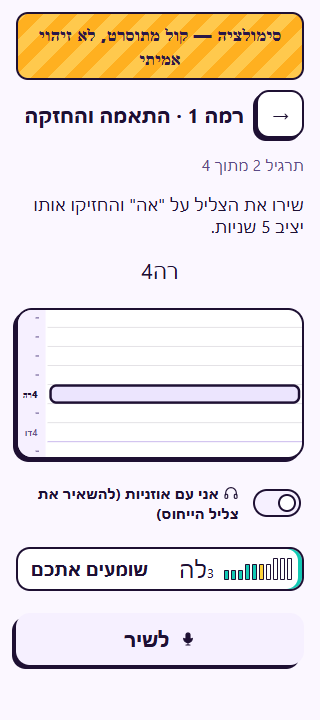
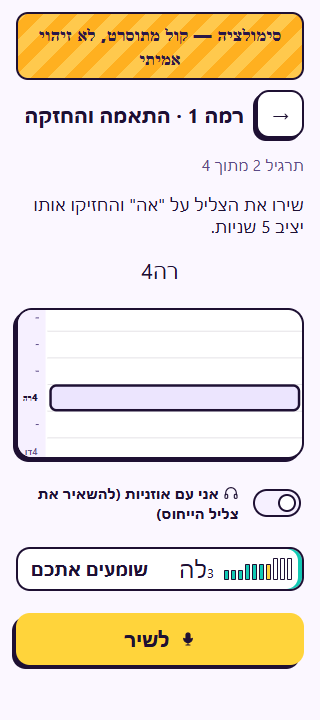
voice UI slice 4: the vibrato chip
- A 1 s box draws the measured vibrato (cycles = rate, height = width on the meter's scale) from a 0.9 s window,
  updated 4 times a second, over a dashed ghost wave of the goal (vibrato-rate, vibrato-width, style band).
- States: straight (flat line), vibrato, unsteady (uneven wave); teal when rate and width are both in band,
  otherwise the off parameter carries a tangerine up / purple down mark; the outline flashes lemon on a cue change.
- The vibrato centre is scored and shown: the cents chip and the zone needle read the mean over the last two
  cycles when a vibrato runs, so a healthy vibrato never reads as out of tune (engine already grades the centre).
- Review: the chip freezes on the take's vibrato with 'even cycles' / 'rate wanders N %'; the old pulsing dot
  at the target rate is gone (the ghost wave replaces it).
- Note names in the target line keep name, accidental, octave order in Hebrew (LRM marks).
- Tests: wave geometry, off-band marks, centre reading; e2e asserts the chip live and in review; shots s4-*.

Changed region(s): [[0.0312, 0.7639, 0.9688, 0.9472], [0.1562, 0.55, 0.9375, 0.5806], [0.0625, 0.5194, 0.125, 0.6417]]

diff --git a/src/ui/SingLane.tsx b/src/ui/SingLane.tsx
@@ -5,7 +5,7 @@
 
 import { useEffect, useLayoutEffect, useMemo, useRef, useState, type ReactNode } from 'react';
 import { chipCents, octaveFold, zoneState, type ZoneState } from '../engine/pitchDisplay';
-import { bestStretch, centreLine, sliceSteadiness, type NoteDetail } from '../engine/vocalLive';
+import { bestStretch, centreLine, liveVibrato, readCents, sliceSteadiness, vibratoOff, vibratoWave, type LiveVibrato, type NoteDetail, type VibratoGoal } from '../engine/vocalLive';
 import type { MelodyNote } from '../engine/vocal';
 import type { Settings } from '../storage/progress';
 import { noteLabel } from './Vocal';
@@ -501,7 +501,8 @@ export function SingReadout({ feed, targets, tol, settings, live, lang }: { feed
   const fresh = p && feed.now() - p.t < 0.25;
   const tg = targetAt(targets, feed.now(), p?.m ?? null);
   const sung = live ? feed.shown : null;
-  const cents = fresh && tg ? (p!.m! + octaveFold(p!.m!, tg.midi) - tg.midi) * 100 : null;
+  const raw = fresh && tg ? (p!.m! + octaveFold(p!.m!, tg.midi) - tg.midi) * 100 : null;
+  const cents = tg && raw !== null ? readCents(feed.track(tg.midi, feed.now() - 1.2), raw) : raw;
   const st = zoneState(cents, tol);
   const sameNote = sung !== null && tg && Math.round(tg.midi) === sung;
   return (
@@ -585,21 +586,25 @@ export function SustainBars({ levels, cur, seconds, sung, best, lang }: { levels
         ))}
       </span>
       <small className="sb-label" dir="ltr">
-        {best !== undefined && best > 0 ? `${SING_TX.best[lang]} ${best.toFixed(1)} s · ` : ''}
-        {Math.min(sung, seconds).toFixed(1)} / {seconds} s
+        {/* review: the longest steady stretch; live: time so far */}
+        {best !== undefined ? `${SING_TX.best[lang]} ${best.toFixed(1)} s` : `${Math.min(sung, seconds).toFixed(1)} / ${seconds} s`}
       </small>
     </div>
   );
 }
 
 /** The live meter row: the zone meter (and, for holds, the steadiness bars) sampled at 10 Hz. */
-export function SingMeters({ feed, targets, tol, seconds, live, bars, meter, lang }: { feed: SingFeed; targets: LaneTarget[]; tol: number; seconds: number; live: boolean; bars: boolean; meter: boolean; lang: 'he' | 'en' }) {
-  useTick(10, live);
+export function SingMeters({ feed, targets, tol, seconds, live, bars, meter, lang, vib, cue, frozenVib }: { feed: SingFeed; targets: LaneTarget[]; tol: number; seconds: number; live: boolean; bars: boolean; meter: boolean; lang: 'he' | 'en'; vib?: VibratoGoal | false | null; cue?: string | null; frozenVib?: (LiveVibrato & { note?: string }) | null }) {
+  const tick = useTick(10, live);
   const p = live ? feed.last() : null;
   const now = feed.now();
   const fresh = p && now - p.t < 0.25;
   const tg = targetAt(targets, now, p?.m ?? null);
-  const cents = fresh && tg ? (p!.m! + octaveFold(p!.m!, tg.midi) - tg.midi) * 100 : null;
+  const raw = fresh && tg ? (p!.m! + octaveFold(p!.m!, tg.midi) - tg.midi) * 100 : null;
+  const cents = tg && raw !== null ? readCents(feed.track(tg.midi, now - 1.2), raw) : raw;
+  // The vibrato chip updates at 4 Hz (every third tick of the 10 Hz meters).
+  const vibRef = useRef<LiveVibrato>({ state: 'none', rate: 0, extent: 0 });
+  if (vib !== false && vib !== undefined && live && tg && tick % 3 === 0) vibRef.current = liveVibrato(feed.track(tg.midi, now - 1.2), 0.9);
   let barsEl: ReactNode = null;
   if (bars && tg) {
     const slice = Math.max(0.25, seconds / 40);
@@ -610,11 +615,59 @@ export function SingMeters({ feed, targets, tol, seconds, live, bars, meter, lan
     const cur = live && on !== null ? Math.min(n - 1, Math.floor(sung / slice)) : -1;
     barsEl = <SustainBars levels={levels} cur={cur} seconds={seconds} sung={Math.max(0, sung)} best={live ? undefined : bestStretch(levels, slice)} lang={lang} />;
   }
+  const chip = vib === false || vib === undefined ? null : <VibratoChip v={live ? vibRef.current : frozenVib ?? { state: 'none', rate: 0, extent: 0 }} goal={vib} cue={cue ?? null} lang={lang} note={live ? undefined : frozenVib?.note} />;
   return (
     <div className="sing-meters">
       {meter && <ZoneMeter cents={cents} tol={tol} />}
-      {barsEl}
+      {chip ? (
+        <div className="sm-row">
+          {barsEl ?? <span className="sm-fill" />}
+          {chip}
+        </div>
+      ) : (
+        barsEl
+      )}
     </div>
+  );
+}
+
+// ------------------------------------------------------------------ the vibrato chip (§4.6)
+
+/** A 1 s box drawing the measured vibrato (cycles = rate, height = width), the goal as a dashed ghost behind it. */
+export function VibratoChip({ v, goal, cue, lang, note }: { v: LiveVibrato; goal: VibratoGoal | null; cue: string | null; lang: 'he' | 'en'; note?: string }) {
+  const W = 84;
+  const H = 26;
+  const ghost = goal ? vibratoWave((goal.rate[0] + goal.rate[1]) / 2, (goal.extent[0] + goal.extent[1]) / 2, W, H) : null;
+  const on = v.state === 'vibrato' || v.state === 'unsteady';
+  const off = on && goal ? vibratoOff(v, goal) : null;
+  const inBand = !!off && off.rate === 0 && off.extent === 0;
+  const wave = on ? vibratoWave(v.rate, v.extent, W, H, v.state === 'unsteady') : `M0 ${H / 2}H${W}`;
+  const mk = (x: -1 | 0 | 1) => (x > 0 ? '▲' : x < 0 ? '▼' : '');
+  return (
+    <span key={cue ?? ''} className={`vib-chip ${v.state}${inBand ? ' in' : ''}${cue ? ' flash' : ''}`} aria-hidden="true" data-vib={v.state}>
+      <svg viewBox={`0 0 ${W} ${H}`} width={W} height={H}>
+        {ghost && <path d={ghost} className="vc-ghost" />}
+        <path d={wave} className="vc-wave" />
+      </svg>
+      <small dir="ltr">
+        {on ? (
+          <>
+            <span className={off?.rate ? (off.rate > 0 ? 'hi' : 'lo') : ''}>
+              {mk(off?.rate ?? 0)}
+              {v.rate.toFixed(1)} Hz
+            </span>{' '}
+            <span className={off?.extent ? (off.extent > 0 ? 'hi' : 'lo') : ''}>
+              {mk(off?.extent ?? 0)}±{v.extent}¢
+            </span>
+          </>
+        ) : v.state === 'straight' ? (
+          SING_TX.straight[lang]
+        ) : (
+          '–'
+        )}
+      </small>
+      {note && <small className="vc-note">{note}</small>}
+    </span>
   );
 }
 

diff --git a/src/ui/Vocal.tsx b/src/ui/Vocal.tsx
@@ -23,6 +23,8 @@ import { displayNote, hzToMidi, type PitchClass } from '../engine/pitch';
 import type { SungFrame } from '../engine/sing';
 import {
   DEFAULT_RANGE,
+  EXTENT_BAND,
+  WIDTH_BAND,
   gradeTake,
   itemFits,
   itemTargets,
@@ -67,9 +69,9 @@ import { VoiceLevelTest } from './VoiceLevelTest';
 import { LatencyCalibrate } from './LatencyCalibrate';
 import { Glyph, DOMAIN_COLOR } from './Glyph';
 import { FAMILY_GLYPH } from './stepGlyphs';
-import { NoteDetailRow, SingLane, SingMeters, SingReadout } from './SingLane';
+import { ltrLabel, NoteDetailRow, SingLane, SingMeters, SingReadout } from './SingLane';
 import { SingFeed, type LaneTarget } from './singFeed';
-import { moneyNotes, noteDetail, zoneTolerance } from '../engine/vocalLive';
+import { moneyNotes, noteDetail, zoneTolerance, type VibratoGoal } from '../engine/vocalLive';
 import { SING_TX } from '../content/singLaneText';
 import { NoVoiceBanner, VoiceCheck } from './VoiceCheck';
 
@@ -1204,6 +1206,26 @@ function VocalSession({
   })();
   const shownIdx = hidden ? shownTargets.map((m, k) => (visible.includes(m) ? k : -1)).filter((k) => k >= 0) : null;
   const holdItem = HOLD_KINDS.includes(item.kind);
+  // The vibrato chip: holds, vibrato items and messa di voce (never staccato, fast melodies or songs).
+  const vibItem = item.kind.startsWith('vibrato') && item.kind !== 'vibrato-notes' || item.kind === 'messa' || item.kind === 'hold' || item.kind === 'straight';
+  const vibGoal: VibratoGoal | false | null = !vibItem
+    ? false
+    : item.kind === 'vibrato-rate'
+      ? { rate: [(item.vibRate ?? 5.5) - 0.4, (item.vibRate ?? 5.5) + 0.4], extent: EXTENT_BAND[style] }
+      : item.kind === 'vibrato-width'
+        ? { rate: [4.5, 7], extent: WIDTH_BAND[item.vibWidth ?? 'narrow'] }
+        : item.kind.startsWith('vibrato')
+          ? { rate: [4.5, 7], extent: EXTENT_BAND[style] }
+          : null;
+  const hv = grade && !grade.unclear ? grade.hold?.vibrato : undefined;
+  const frozenVib = vibItem && hv
+    ? {
+        state: (hv.present ? (hv.regularity > 0.35 ? 'unsteady' : 'vibrato') : 'straight') as 'vibrato' | 'unsteady' | 'straight',
+        rate: Math.round(hv.rate * 10) / 10,
+        extent: Math.round(hv.extent / 5) * 5,
+        note: hv.present ? (hv.jitter <= 0.1 ? SING_TX.even[lang] : `${SING_TX.wanders[lang]} ${Math.round(hv.jitter * 100)}%`) : undefined,
+      }
+    : null;
   const strong = !!grade && !grade.unclear && grade.score >= STRONG;
   const weakestScore = grade && grade.weakest ? Math.min(...grade.metrics.filter((m) => m.key === grade.weakest).map((m) => m.score)) : 1;
   const title = level === 'warmup' ? t.vocalWarmup : isNewLevel(level) ? levelName(level, t, settings.uiLang === 'en' ? 'en' : 'he') : level > ORNAMENT_BASE ? `${t.ornTitle} · ${t.ornLevelNames[level - ORNAMENT_BASE - 1]}` : level > SIGHT_BASE ? `${t.sightTitle} · ${t.sightLevelNames[level - SIGHT_BASE - 1]}` : level > BARRY_BASE ? `${t.barryTitle} · ${t.barryLevelNames[level - BARRY_BASE - 1]}` : level > HARMONY_BASE ? `${t.harmonyTitle} · ${t.harmonyLevelNames[level - HARMONY_BASE - 1]}` : level > MODES_BASE ? `${t.modesTitle} · ${t.modesLevelNames[level - MODES_BASE - 1]}` : `${fill(t.vocalLevel, { n: level })} · ${t.vocalLevelNames[level - 1]}`;
@@ -1281,7 +1303,6 @@ function VocalSession({
           ))}
         </p>
       )}
-      {item.kind === 'vibrato-rate' && phase === 'singing' && <div className="vib-pulse" style={{ animationDuration: `${1 / (item.vibRate ?? 5.5)}s` }} aria-hidden="true" />}
       {isSight(item) ? (
         <div className="sight-score">
           <NotesView midis={shownTargets} keyPc={pc(sightKeyName(item, shownTargets[0]))} settings={settings} durs={item.durs} clef={item.more?.clef ?? (range.low <= 45 ? 'bass' : undefined)} now={pulseNow} />
@@ -1295,7 +1316,7 @@ function VocalSession({
         </div>
       ) : (pulse && phase !== 'result') || (phase === 'result' && !!melNotes) || (phase === 'singing' && !visible.some((m) => Math.abs(m - Math.round(m)) > 0.2)) ? null : (
       <p className="vocal-targets" dir="ltr">
-        {visible.map((m) => (Math.abs(m - Math.round(m)) > 0.2 ? `${noteLabel(Math.ceil(m), settings)}¼↓` : noteLabel(m, settings))).join(' – ')}
+        {visible.map((m) => ltrLabel(Math.abs(m - Math.round(m)) > 0.2 ? `${noteLabel(Math.ceil(m), settings)}¼↓` : noteLabel(m, settings))).join(' – ')}
       </p>
       )}
       {/* While singing, the lane carries the notes; the beat light keeps the count-in and the pulse (timing-cue rule). */}
@@ -1340,8 +1361,8 @@ function VocalSession({
       <NoVoiceBanner feed={feed} live={phase === 'singing'} from={0} lang={lang} />
       </div>
       {detail && <NoteDetailRow label={detail.label} d={detail.d} golden={detail.golden} tol={tol} lang={lang} onClose={() => setSel(null)} />}
-      {((phase !== 'result' && phase !== 'ready') || (phase === 'result' && holdItem && grade && !grade.unclear)) && (
-        <SingMeters feed={feed} targets={laneTargets} tol={tol} seconds={item.seconds} live={phase === 'singing'} bars={holdItem} meter={phase !== 'result'} lang={lang} />
+      {((phase !== 'result' && phase !== 'ready') || (phase === 'result' && (holdItem || !!frozenVib) && grade && !grade.unclear)) && (
+        <SingMeters feed={feed} targets={laneTargets} tol={tol} seconds={item.seconds} live={phase === 'singing'} bars={holdItem} meter={phase !== 'result'} lang={lang} vib={vibGoal} cue={cue} frozenVib={frozenVib} />
       )}
       {item.reference === 'during' && (
         <label className="toggle-row">

diff --git a/tests/pitchDisplay.test.ts b/tests/pitchDisplay.test.ts
@@ -2,7 +2,7 @@ import { describe, expect, it } from 'vitest';
 import { DisplaySmoother, NoteNamer, octaveFold, smoothTrack, zoneState, ZONE_LOOK, chipCents } from '../src/engine/pitchDisplay';
 import { centsTrack, synthHold, synthMelody } from '../src/engine/vocal';
 import { midiToHz } from '../src/engine/pitch';
-import { bestStretch, centreLine, liveVibrato, moneyNotes, noteDetail, sliceSteadiness, steadyLevel, zoneTolerance } from '../src/engine/vocalLive';
+import { bestStretch, centreLine, liveVibrato, moneyNotes, noteDetail, readCents, sliceSteadiness, steadyLevel, vibratoOff, vibratoWave, zoneTolerance } from '../src/engine/vocalLive';
 import type { SungFrame } from '../src/engine/sing';
 import { VoiceCheckState, levelOf } from '../src/engine/voiceCheck';
 
@@ -195,5 +195,38 @@ describe('melody review helpers', () => {
     expect(d.wobble).not.toBeNull();
     expect(d.wobble!).toBeLessThanOrEqual(12);
     expect(noteDetail({ target: 62, cents: null, settleMs: null, overshoot: 0, start: null }, tr, 1, null).wobble).toBeNull();
+  });
+});
+
+describe('vibrato chip', () => {
+  it('draws rate as cycles per box and width as height (±50 ¢ fills it)', () => {
+    const pts = (d: string) => d.slice(1).split('L').map((q) => q.split(' ').map(Number));
+    const ys = (d: string) => pts(d).map((p) => p[1]);
+    const crossings = (d: string) => {
+      const sg = ys(d).map((v) => Math.sign(Math.round((v - 13) * 10))).filter((v) => v !== 0);
+      let n = 0;
+      for (let k = 1; k < sg.length; k++) if (sg[k] !== sg[k - 1]) n++;
+      return n + 1;
+    };
+    const w6 = vibratoWave(6, 40, 84, 26, false, 240);
+    expect(Math.round(crossings(w6) / 2)).toBe(6);
+    const amp = (d: string) => (Math.max(...ys(d)) - Math.min(...ys(d))) / 2;
+    expect(amp(vibratoWave(6, 50, 84, 26))).toBeCloseTo(11, 0);
+    expect(amp(vibratoWave(6, 25, 84, 26))).toBeCloseTo(5.5, 0);
+    expect(amp(vibratoWave(6, 200, 84, 26))).toBeCloseTo(11, 0);
+    expect(ys(vibratoWave(5, 40, 84, 26, true)).length).toBe(49);
+  });
+  it('flags the parameter outside the goal', () => {
+    const g = { rate: [4.5, 7] as [number, number], extent: [20, 50] as [number, number] };
+    expect(vibratoOff({ state: 'vibrato', rate: 5.6, extent: 30 }, g)).toEqual({ rate: 0, extent: 0 });
+    expect(vibratoOff({ state: 'vibrato', rate: 7.6, extent: 15 }, g)).toEqual({ rate: 1, extent: -1 });
+  });
+  it('the needle reads the vibrato centre, not the wave', () => {
+    const tr = centsTrack(synthHold(62, { seconds: 2.5, cents: 8, vibRate: 5.6, vibExtent: 45 }), 62);
+    const last = tr[tr.length - 1].c;
+    const c = readCents(tr, last)!;
+    expect(Math.abs(c - 8)).toBeLessThan(10);
+    const straight = centsTrack(synthHold(62, { seconds: 2, cents: 12 }), 62);
+    expect(readCents(straight, 12)).toBe(12);
   });
 });

diff --git a/src/engine/vocalLive.ts b/src/engine/vocalLive.ts
@@ -199,3 +199,44 @@ export function centreLine(pts: { t: number; m: number | null }[], win = 0.3): {
   if (run.length) flush();
   return out;
 }
+
+/** What a vibrato exercise asks for (the chip's ghost wave and its in-band check). */
+export interface VibratoGoal {
+  rate: [number, number];
+  extent: [number, number];
+}
+
+/** The chip's wave (§4.6): cycles across a 1 s box = rate, amplitude = extent on the meter's scale (±50 ¢ fills it). */
+export function vibratoWave(rate: number, extent: number, w: number, h: number, unsteady = false, steps = 48): string {
+  const mid = h / 2;
+  const amp = Math.min(1, extent / 50) * (mid - 2);
+  let d = '';
+  for (let k = 0; k <= steps; k++) {
+    const x = (k / steps) * w;
+    const ph = 2 * Math.PI * rate * (k / steps);
+    // unsteady: an uneven amplitude (deterministic, so the drawing does not shimmer)
+    const a = unsteady ? amp * (0.55 + 0.45 * Math.abs(Math.sin(2.3 * ph + 1.1))) : amp;
+    d += `${k ? 'L' : 'M'}${x.toFixed(1)} ${(mid - a * Math.sin(ph)).toFixed(1)}`;
+  }
+  return d;
+}
+
+/** Is a live reading inside the goal? Returns the off parameter's side, or null when both are in band. */
+export function vibratoOff(v: LiveVibrato, g: VibratoGoal): { rate: -1 | 0 | 1; extent: -1 | 0 | 1 } {
+  const side = (x: number, [lo, hi]: [number, number]) => (x < lo ? -1 : x > hi ? 1 : 0) as -1 | 0 | 1;
+  return { rate: side(v.rate, g.rate), extent: side(v.extent, g.extent) };
+}
+
+/**
+ * Cents the needle and chip read: the vibrato centre when a vibrato is running (the mean over the last ~2 cycles),
+ * else the newest point. Intonation is judged at the centre, so a healthy vibrato never reads as out of tune.
+ */
+export function readCents(track: TrackPoint[], fallback: number | null): number | null {
+  if (fallback === null || track.length < 10) return fallback;
+  const v = liveVibrato(track, 0.9);
+  if (v.state !== 'vibrato' && v.state !== 'unsteady') return fallback;
+  const end = track[track.length - 1].t;
+  const span = Math.max(0.3, 2 / (v.rate || 5.5));
+  const w = track.filter((p) => p.t >= end - span);
+  return w.length ? w.reduce((a, p) => a + p.c, 0) / w.length : fallback;
+}

diff --git a/src/singlane.css b/src/singlane.css
@@ -794,3 +794,91 @@
 .phrase-strip .ps.weak {
   border-style: dashed;
 }
+
+/* ---------------------------------------------------------------- the vibrato chip */
+.sm-row {
+  display: flex;
+  align-items: center;
+  gap: 8px;
+}
+.sm-row .sustain-bars {
+  flex: 1;
+  min-width: 0;
+}
+.sm-fill {
+  flex: 1;
+}
+.vib-chip {
+  flex: none;
+  display: grid;
+  justify-items: center;
+  width: 96px;
+  padding: 2px 4px 1px;
+  border: 2.5px solid var(--outline);
+  border-radius: 10px;
+  background: var(--card);
+  color: var(--ink);
+  transition: background-color 0.15s ease-out;
+}
+.vib-chip svg {
+  display: block;
+}
+.vib-chip small {
+  font-size: 0.66rem;
+  font-weight: 700;
+  line-height: 1.15;
+  white-space: nowrap;
+  font-variant-numeric: tabular-nums;
+}
+.vib-chip .vc-note {
+  font-weight: 600;
+  color: var(--ink-soft);
+}
+.vib-chip .hi {
+  color: var(--tangerine);
+}
+.vib-chip .lo {
+  color: var(--purple);
+}
+:root[data-theme='dark'] .vib-chip .lo {
+  color: var(--lilac);
+}
+.vc-wave {
+  fill: none;
+  stroke: var(--ink);
+  stroke-width: 2;
+  stroke-linejoin: round;
+}
+.vc-ghost {
+  fill: none;
+  stroke: var(--purple);
+  stroke-width: 1.2;
+  stroke-dasharray: 3 2;
+  opacity: 0.7;
+}
+.vib-chip.in {
+  background: var(--teal);
+}
+.vib-chip.in small,
+.vib-chip.in .vc-wave {
+  color: var(--ink-c, #1e1033);
+  stroke: var(--ink-c, #1e1033);
+}
+.vib-chip.unsteady .vc-wave {
+  stroke-dasharray: 5 2;
+}
+/* the cue changed: the outline flashes lemon for 300 ms (now) */
+.vib-chip.flash {
+  animation: vc-flash 0.3s steps(1, end);
+}
+@keyframes vc-flash {
+  0% {
+    border-color: var(--lemon);
+    box-shadow: 0 0 0 2px var(--outline);
+  }
+}
+@media (prefers-reduced-motion: reduce) {
+  .vib-chip.flash {
+    animation: none;
+  }
+}

diff --git a/src/content/singLaneText.ts b/src/content/singLaneText.ts
@@ -23,4 +23,6 @@ export const SING_TX = {
   early: { en: 'early', he: 'מוקדם' },
   late: { en: 'late', he: 'מאוחר' },
   octave: { en: 'wrong octave', he: 'אוקטבה אחרת' },
+  even: { en: 'even cycles', he: 'גלים אחידים' },
+  wanders: { en: 'rate wanders', he: 'קצב משתנה' },
 } satisfies Record<string, T>;
